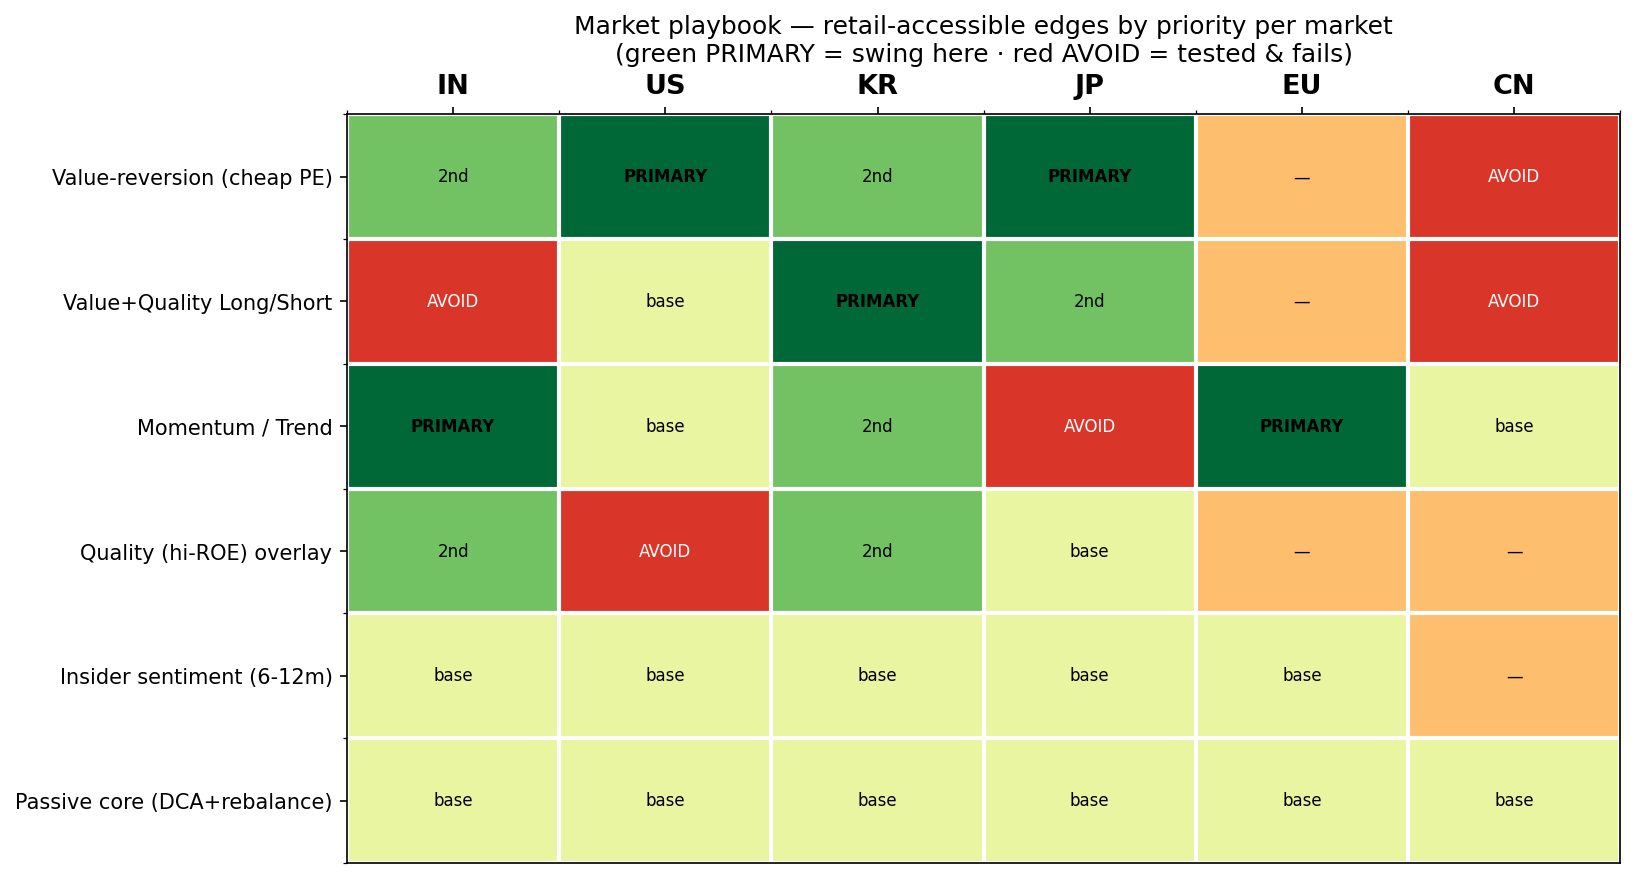
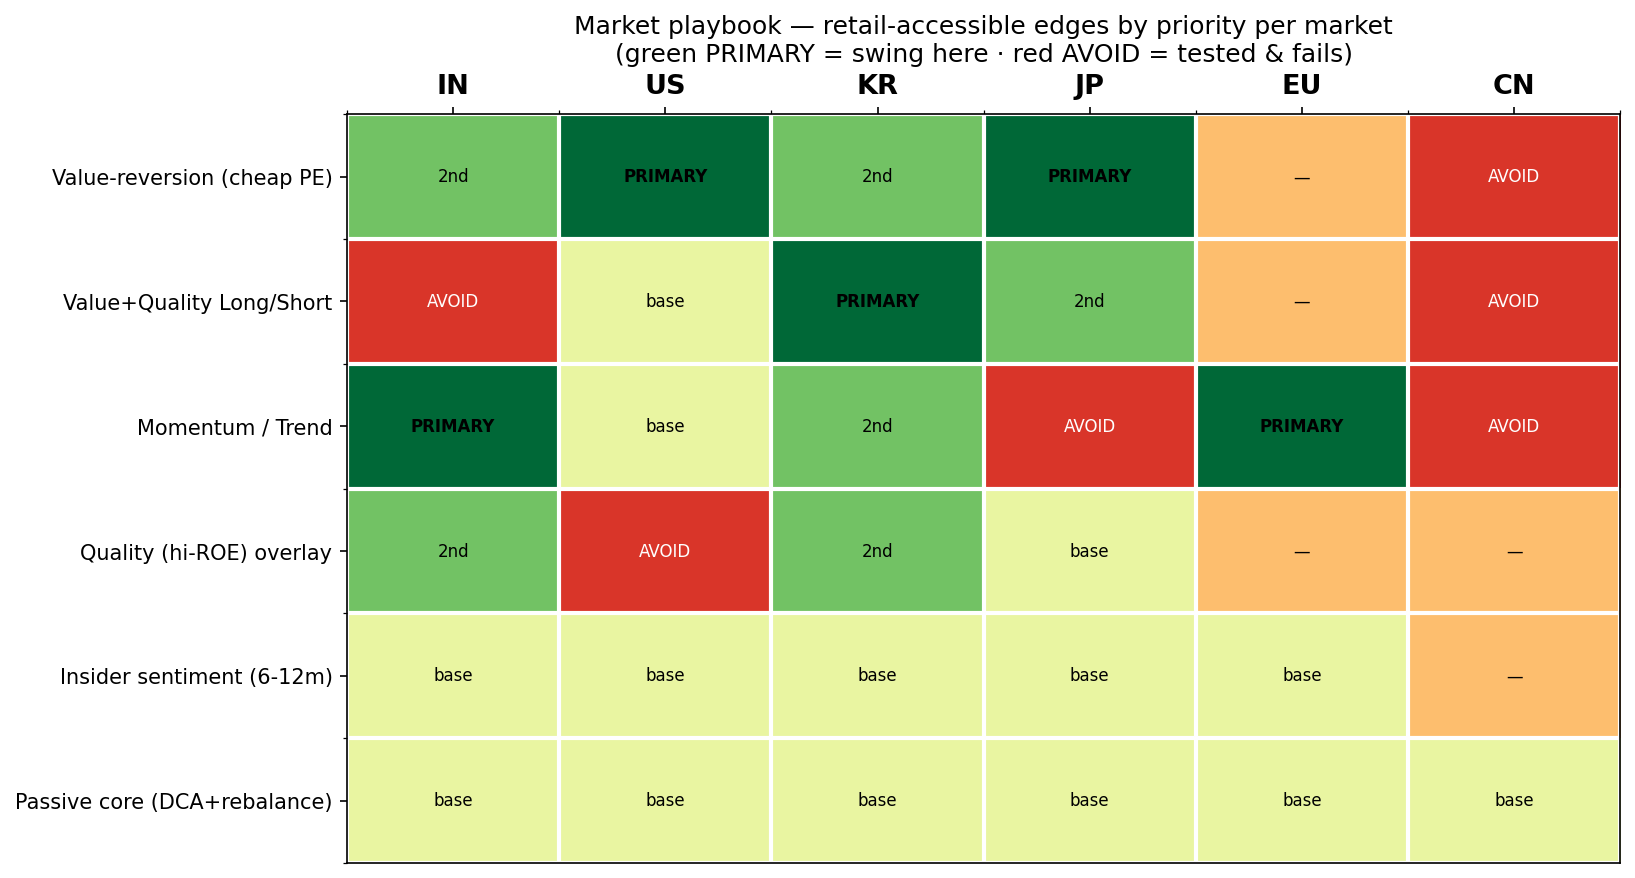
gap-fix 2/4: CN momentum TESTED & fails at 6M (W-L -0.7%, t-0.2) — corrects 'likely' claim
Backtested CN 12M momentum (104 formations, powered): winner-loser -0.69%/6M, t-0.22.
China has NEITHER value (t0.3) NOR slow-momentum edge — any CN momentum is fast/retail-
inaccessible. Upgrades the CN 'passive only' recommendation from tentative to tested-null.
Updated playbook (CN momentum -> AVOID) + retrospective finding (now validated).

Changed region(s): [[0.8422, 0.3998, 0.9982, 0.5535]]

diff --git a/market-pipeline/code/python_files/project_retrospective.py b/market-pipeline/code/python_files/project_retrospective.py
@@ -24,7 +24,7 @@ FIND = [
  ("Information-asymmetry tax is horizon-dependent → retail can only harvest SLOW edges", 8, "validated"),
  ("Measurement > data quantity (Japan flip: null→+6.6%/6M t4.84 via EDINET depth)", 9, "validated"),
  ("Country-ERP: China's cheapness is NOT risk-justified (CRP 0.91%) → speculation confirmed", 7, "validated"),
- ("China value-reversion fails but momentum likely dominates", 3, "tentative/untested"),
+ ("China: NEITHER value (t0.3) NOR 6M momentum (t−0.2) works — passive only (was tentative, now tested)", 8, "validated"),
  ("EU value effect", 2, "underpowered — cannot conclude"),
 ]
 
@@ -32,8 +32,6 @@ FIND = [
 GAP = [
  ("valuation_clusters only IN/US/KR — JP/EU/CN have no peer clusters (screener falls back)", 8, 3,
   "re-run valuation_clustering.py on JP_full/CN_full/EU_union (data now exists) → fills JP/EU picks"),
- ("CN momentum untested (we assert 'likely' but never backtested)", 6, 3,
-  "run deflated_sharpe/regime on CN warehouse prices → confirm or kill the momentum claim"),
  ("Full-universe fundamentals-vs-speculation incomplete (US-only preview)", 6, 4,
   "join Damodaran sector map (48k, instant) to all markets → the cross-market speculation map"),
  ("H2 Accumulation (prior paper) never re-tested this session", 5, 4,

diff --git a/market-pipeline/code/python_files/market_playbook.py b/market-pipeline/code/python_files/market_playbook.py
@@ -34,7 +34,8 @@ P = {
  "Momentum / Trend": {
    "IN": (3, "trend DSR 0.994 — most robust factor found; long-only"), "US": (1, "mom DSR 0.90 fragile — light"),
    "KR": (2, "breakout DSR 0.99"), "JP": (-1, "no DSR survivor — whipsaws"),
-   "EU": (3, "mom252 DSR 0.985 — primary EU edge"), "CN": (1, "untested but character-implied; use with care")},
+   "EU": (3, "mom252 DSR 0.985 — primary EU edge"),
+   "CN": (-1, "TESTED & FAILS at 6M too (W−L −0.7%, t−0.2) — any CN momentum is fast/retail-inaccessible")},
  "Quality (hi-ROE) overlay": {
    "IN": (2, "earns premium behind the liquidity gate"), "US": (-1, "Piotroski INVERTED in US"),
    "KR": (2, "hi-ROE cheap = the Korea discount"), "JP": (1, "pairs with value"),

diff --git a/market-pipeline/code/python_files/reports/project_retrospective.md b/market-pipeline/code/python_files/reports/project_retrospective.md
@@ -26,7 +26,7 @@ A full-arc review from the platform's origin to the live paper-track: what we've
 | Information-asymmetry tax is horizon-dependent → retail can only harvest SLOW edges | 8/10 | validated |
 | Measurement > data quantity (Japan flip: null→+6.6%/6M t4.84 via EDINET depth) | 9/10 | validated |
 | Country-ERP: China's cheapness is NOT risk-justified (CRP 0.91%) → speculation confirmed | 7/10 | validated |
-| China value-reversion fails but momentum likely dominates | 3/10 | tentative/untested |
+| China: NEITHER value (t0.3) NOR 6M momentum (t−0.2) works — passive only (was tentative, now tested) | 8/10 | validated |
 | EU value effect | 2/10 | underpowered — cannot conclude |
 
 ## Gaps to fix (prioritised by impact ÷ effort)
@@ -35,7 +35,6 @@ A full-arc review from the platform's origin to the live paper-track: what we've
 |---|--:|--:|---|
 | valuation_clusters only IN/US/KR — JP/EU/CN have no peer clusters (screener falls back) | 8 | 3 | re-run valuation_clustering.py on JP_full/CN_full/EU_union (data now exists) → fills JP/EU picks |
 | EV/EBITDA sector map not run (dam_vebitda downloaded) | 5 | 2 | capital-structure-neutral re-do of the sector map — de-distorts financials/asset-heavy |
-| CN momentum untested (we assert 'likely' but never backtested) | 6 | 3 | run deflated_sharpe/regime on CN warehouse prices → confirm or kill the momentum claim |
 | Short-borrow cost not modelled in KR/JP long/short returns | 6 | 3 | haircut the short leg by a locate+borrow estimate — the L/S t-stats are gross |
 | Full-universe fundamentals-vs-speculation incomplete (US-only preview) | 6 | 4 | join Damodaran sector map (48k, instant) to all markets → the cross-market speculation map |
 | Confusion matrix on SHORT-horizon signals (PEAD/momentum) not done | 6 | 4 | where the info-asymmetry tax actually bites — run the net-of-cost classifier on fast signals |

diff --git a/market-pipeline/code/python_files/reports/market_playbook.md b/market-pipeline/code/python_files/reports/market_playbook.md
@@ -46,10 +46,10 @@ Only durable + retail-harvestable edges (low information-asymmetry tax). Ranked 
 
 ## CN — *speculation-ruled — passive only*
 
-- ⚙ base — **Momentum / Trend** — untested but character-implied; use with care
 - ⚙ base — **Passive core (DCA+rebalance)** — always-on base: DCA + annual rebalance, vol-targeted
 - 🚫 AVOID — **Value-reversion (cheap PE)** — TESTED & FAILS (t0.3) — do not run
 - 🚫 AVOID — **Value+Quality Long/Short** — value leg fails
+- 🚫 AVOID — **Momentum / Trend** — TESTED & FAILS at 6M too (W−L −0.7%, t−0.2) — any CN momentum is fast/retail-inaccessible
 
 ## Rules that apply everywhere
 
